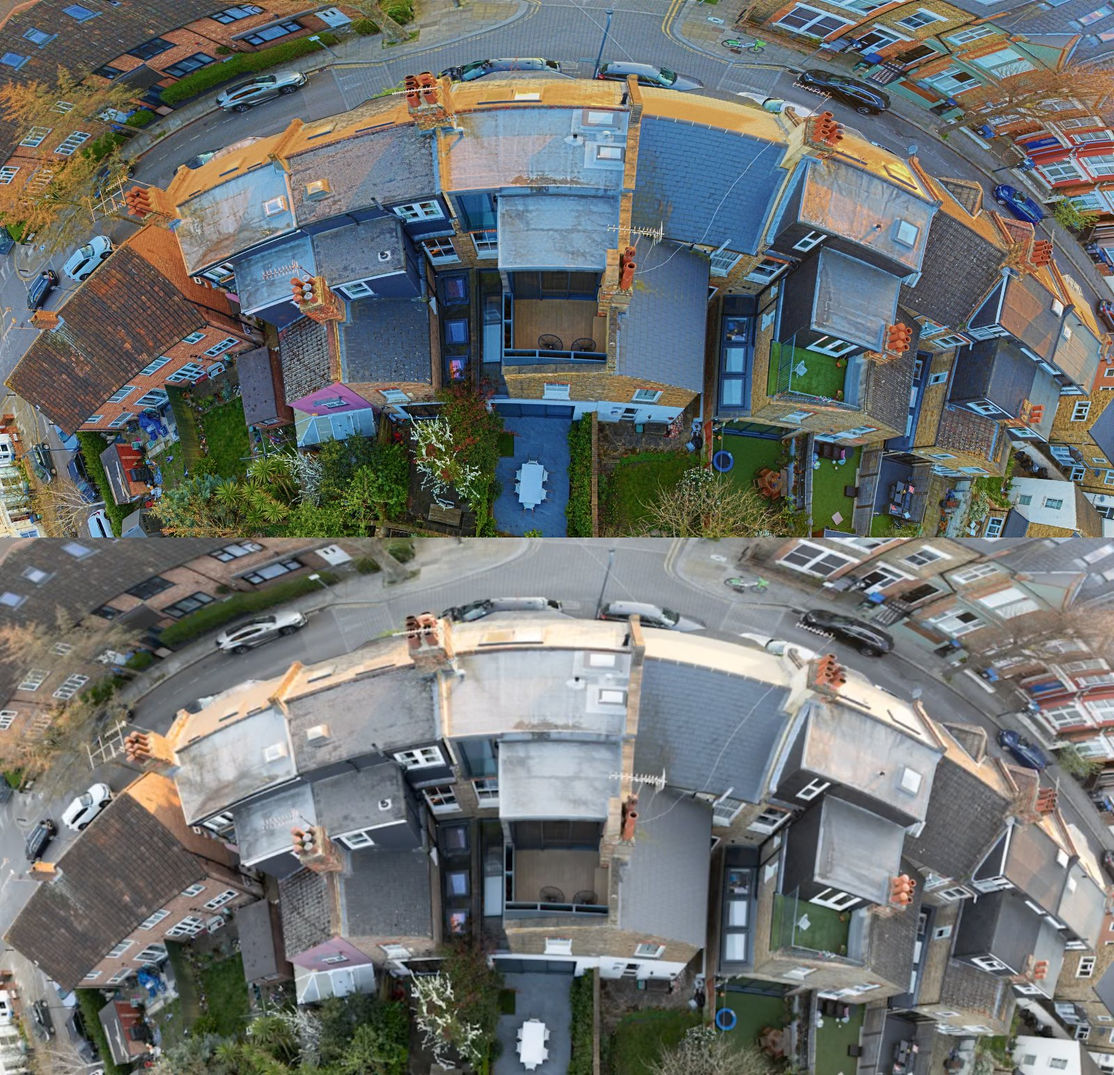
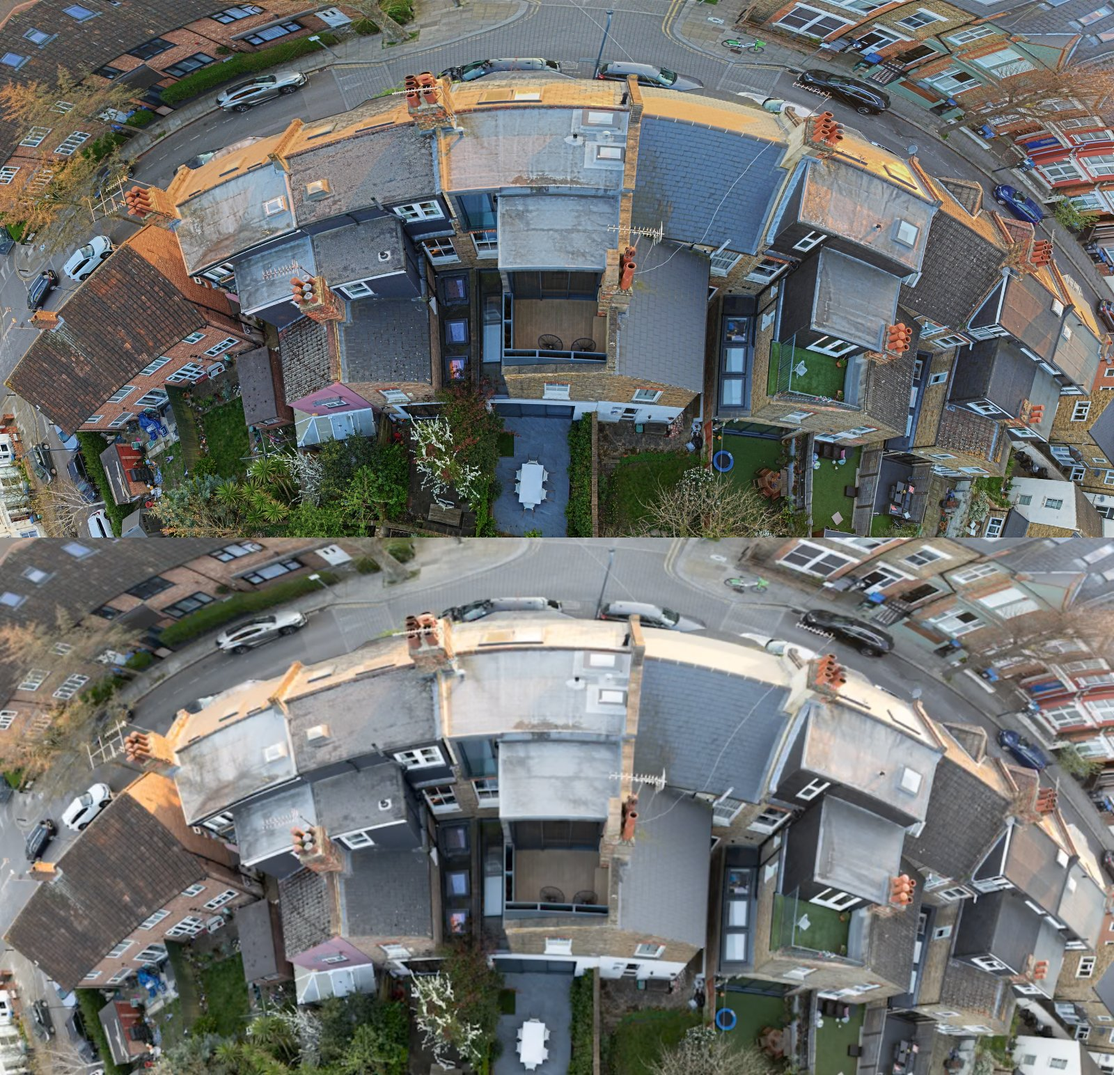
Lightroom Adobe Standard files get the camera's own colour profile back

diff --git a/src/stratastills/inputs.py b/src/stratastills/inputs.py
@@ -2,12 +2,12 @@
 
 `describe(path)` says what kind of file it is: 'raw' (a mosaic LibRaw reads: develop.py), 'linear-dng' (demosaiced RGB in a DNG, e.g. a Lightroom panorama merge: lineardng.py reads it into the same form) or 'rendered' (a JPEG, TIFF, PNG: no development), with the camera's make and model.
 `PROFILES` holds per-device settings, keyed by (make, model) in lower case; `profile(make, model)` finds them (a make-only entry is the fallback). What a profile can set:
-  tone_curve   the file name (in this package) of the tone curve to use when the file has no ProfileToneCurve of its own: a linear DNG written by Lightroom has none, and without one the picture would not look like the camera's other pictures
+  bundle       the file name (in this package) of the camera's own colour profile (colour matrices, hue/saturation map, tone curve: the tags its raw DNGs carry). Lightroom's panorama merge replaces them with Adobe Standard's (a stronger map, a look table, and the tone curve left to Lightroom's renderer: measured, the map alone takes saturation up to 2x and brightness up to 1.9x), so for files whose ProfileName says Adobe Standard the camera's own are put back: the pictures then look like the camera's other pictures
 To support a new device: add an entry here (and, if its files are a new kind, a reader beside lineardng.py) and a test; the pipelines themselves stay the same."""
 import json, os
 
 PROFILES = {
-    ('dji', 'fc8482'): dict(label='DJI Mini 4 Pro', tone_curve='dji_fc8482_tone_curve.json'),                                  # the curve is the camera's own ProfileToneCurve (from its raw DNGs)
+    ('dji', 'fc8482'): dict(label='DJI Mini 4 Pro', bundle='dji_fc8482_profile.json'),                                          # taken from its raw DNGs
 }
 _cache = {}
 
@@ -22,14 +22,26 @@ def profile(make, model):
     return PROFILES.get((_text(make), _text(model))) or PROFILES.get((_text(make), None)) or {}
 
 
+def _bundle(name):
+    if name not in _cache: _cache[name] = json.load(open(os.path.join(os.path.dirname(__file__), name)))
+    return _cache[name]
+
+
+def adjust_tags(tags):
+    """The DNG tags to develop with: a file Lightroom wrote with the Adobe Standard profile gets its device's own colour profile (see `bundle`); anything else is returned as it is (the dict is changed in place)."""
+    if _text(tags.get('ProfileName')) != 'adobe standard': return tags
+    name = profile(tags.get('Make'), tags.get('Model')).get('bundle')
+    if name:
+        for k, v in _bundle(name).items(): tags[k] = tuple(v) if isinstance(v, list) else v
+        tags['ProfileName'] = 'Embedded'
+    return tags
+
+
 def tone_curve(tags):
     """The tone curve (pairs of input, output) to develop with: the file's own ProfileToneCurve, else its device profile's, else None (plain sRGB)."""
     own = tags.get('ProfileToneCurve')
     if own is not None: return own
-    name = profile(tags.get('Make'), tags.get('Model')).get('tone_curve')
-    if not name: return None
-    if name not in _cache: _cache[name] = json.load(open(os.path.join(os.path.dirname(__file__), name)))
-    return _cache[name]
+    name = profile(tags.get('Make'), tags.get('Model')).get('bundle'); return _bundle(name).get('ProfileToneCurve') if name else None
 
 
 def describe(path):

diff --git a/src/stratastills/develop.py b/src/stratastills/develop.py
@@ -30,14 +30,14 @@ class DevelopError(RuntimeError): pass
 def read_dng_tags(path):
     """The DNG tags this module uses, from the raw IFD (and the main IFD): {name: value}. Missing ones are left out."""
     import tifffile
-    want = ('ColorMatrix1', 'ColorMatrix2', 'CalibrationIlluminant1', 'CalibrationIlluminant2', 'AsShotNeutral', 'BaselineExposure', 'NoiseProfile', 'ProfileToneCurve', 'OpcodeList3', 'BlackLevel', 'WhiteLevel', 'ProfileHueSatMapDims', 'ProfileHueSatMapData1', 'ProfileHueSatMapData2', 'ProfileHueSatMapEncoding', 'Make', 'Model')
+    want = ('ColorMatrix1', 'ColorMatrix2', 'CalibrationIlluminant1', 'CalibrationIlluminant2', 'AsShotNeutral', 'BaselineExposure', 'NoiseProfile', 'ProfileToneCurve', 'OpcodeList3', 'BlackLevel', 'WhiteLevel', 'ProfileHueSatMapDims', 'ProfileHueSatMapData1', 'ProfileHueSatMapData2', 'ProfileHueSatMapEncoding', 'Make', 'Model', 'ProfileName')
     out = {}
     with tifffile.TiffFile(path) as t:
         pages = [t.pages[0]] + list(getattr(t.pages[0], 'pages', []) or [])
         for pg in pages:
             for tag in pg.tags.values():
                 if tag.name in want and tag.name not in out: out[tag.name] = tag.value
-    return out
+    return inputs.adjust_tags(out)
 
 
 def _rationals(v): return np.array([a / b if b else 0.0 for a, b in zip(v[0::2], v[1::2])], float)

diff --git a/tests/unit/test_inputs.py b/tests/unit/test_inputs.py
@@ -43,6 +43,13 @@ def test_a_device_profile_supplies_the_tone_curve_only_when_the_file_has_none():
     assert inputs.tone_curve(dict(Make='Nobody', Model='X1')) is None and inputs.tone_curve({}) is None
 
 
+def test_lightroom_adobe_standard_files_get_the_cameras_own_colour_profile_back():
+    adobe = dict(ProfileName='Adobe Standard', Make='DJI', Model='FC8482', ColorMatrix1=(1, 2), ProfileHueSatMapDims=(90, 30, 1), AsShotNeutral=(4, 10, 1, 1, 6, 10)); out = inputs.adjust_tags(dict(adobe))
+    assert out['ProfileHueSatMapDims'] == (36, 10, 1) and len(out['ProfileToneCurve']) == 256 and len(out['ColorMatrix1']) == 18 and out['AsShotNeutral'] == adobe['AsShotNeutral']       # the white balance stays the file's own
+    own = dict(ProfileName='Embedded', Make='DJI', Model='FC8482', ColorMatrix1=(1, 2)); assert inputs.adjust_tags(dict(own)) == own
+    other = dict(adobe, Make='Nobody'); assert inputs.adjust_tags(dict(other)) == other                                                          # no device profile: left alone
+
+
 def test_describe_tells_the_kind_of_file(tmp_path):
     p = tmp_path / 'a.jpg'; p.write_bytes(b'x'); assert inputs.describe(str(p)) == dict(kind='rendered', make=None, model=None, profile=None)
     assert inputs.profile('DJI', 'FC8482')['label'] == 'DJI Mini 4 Pro' and inputs.profile('x', 'y') == {}

diff --git a/docs/progress.md b/docs/progress.md
@@ -103,5 +103,5 @@ Search: no public DJI Mini 4 Pro colour profile / tone curve exists; Adobe ships
 
 ## Linear DNGs and input profiles (lineardng.py, inputs.py)
 The DJI "-Pano" DNGs are Lightroom Classic panorama merges: LINEAR_RAW (demosaiced RGB, JPEG XL tiles), which LibRaw refuses. `lineardng.read` gives develop the same thing LibRaw would: per-channel black/white (BlackLevel is RATIONAL here), the OpcodeList2 MapPolynomial per plane (Lightroom stores merges in a non-linear encoding; this makes them linear), then white balance 1/AsShotNeutral (checked: neutral pixels of the embedded preview come out at the AsShotNeutral ratio after the polynomial). The merge's empty curved borders (MASK page) are cropped to the biggest inscribed rectangle. Pictures bigger than the card (gpu.max_pixels(): 90 % of VRAM over the measured 133 bytes per pixel; 116 MP thrashes through system memory for minutes) are area-averaged down to fit, so the pano develops at ~83 % of native, in about 3-4 minutes.
-Lightroom's merge has no ProfileToneCurve, so `inputs.py` supplies the device's own curve (DJI FC8482: extracted from its raw DNGs, `dji_fc8482_tone_curve.json`) and the other pictures' look. `inputs.describe(path)` classifies a file (raw / linear-dng / rendered, make, model, profile) and is recorded as `input` in each generated picture's sidecar. To add a device: an entry in `inputs.PROFILES` (and a reader if its files are a new kind) plus a test.
-Open: the pano look is more saturated than Lightroom's own preview; the sunlit ridge is orange again (see docs/pano_0046_compare.jpg).
+Lightroom's merge carries the Adobe Standard profile instead of the camera's own (other ColorMatrix, a 90x30 hue/sat map with saturation scale up to 2 and value scale up to 1.9, a ProfileLookTable, no ProfileToneCurve: Lightroom's renderer adds its default curve). Using those tables made the panoramas heavily over-saturated and orange, so `inputs.adjust_tags` puts the camera's own profile back (colour matrices, hue/sat map, tone curve: `dji_fc8482_profile.json`, extracted from its raw DNGs) when ProfileName is Adobe Standard; the white balance, noise profile and levels stay the file's. The Adobe look table is ignored. `inputs.describe(path)` classifies a file (raw / linear-dng / rendered, make, model, profile) and is recorded as `input` in each generated picture's sidecar. To add a device: an entry in `inputs.PROFILES` (and a reader if its files are a new kind) plus a test.
+After the swap: median HSV saturation pano 55 vs the regular raw of the same scene 46 vs Lightroom's preview 29 (docs/pano_0046_compare.jpg: ours above, Lightroom's preview below).
